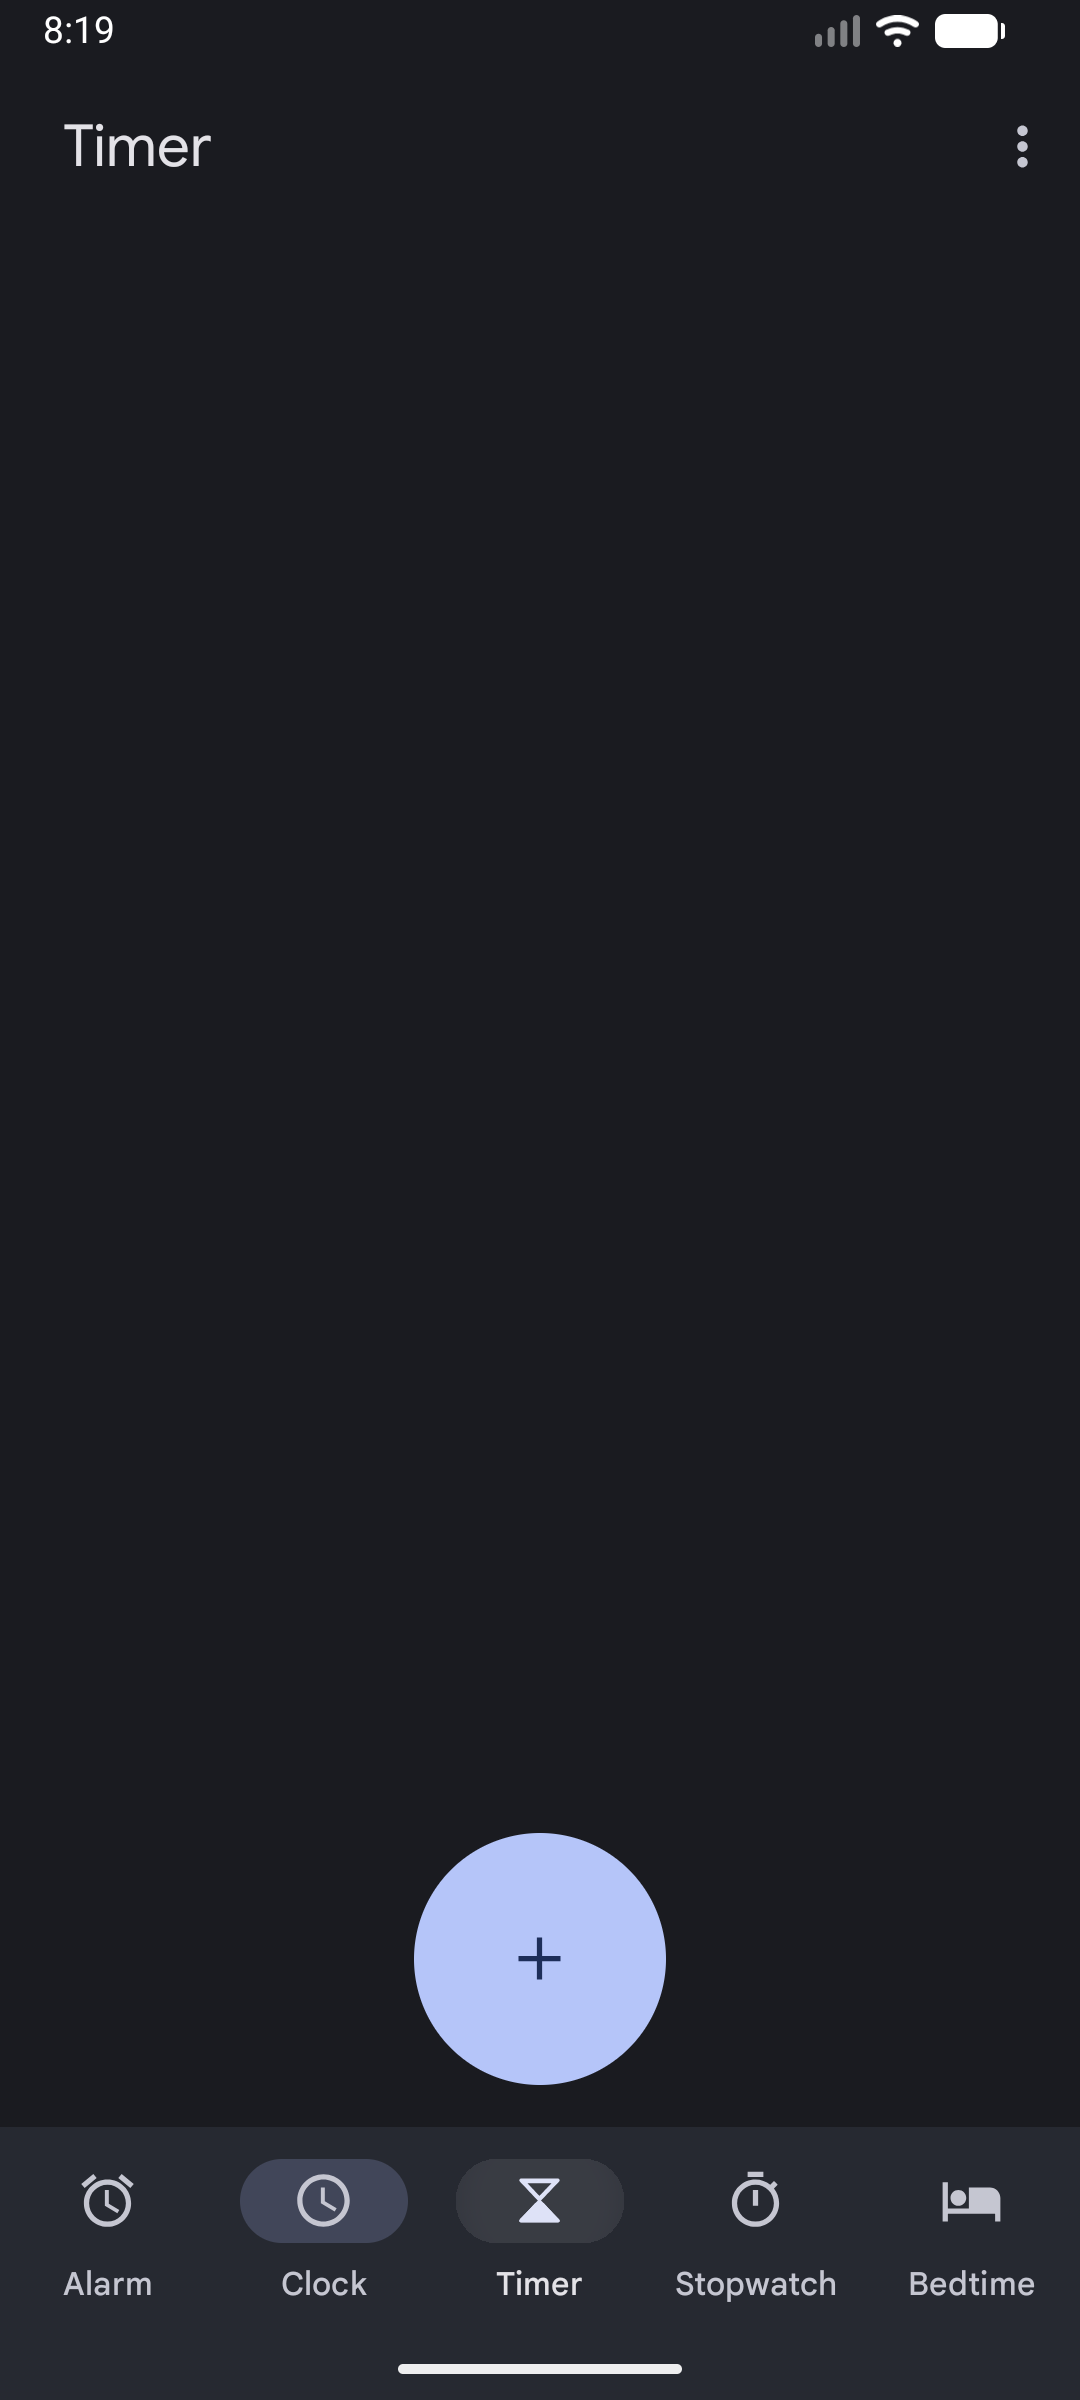
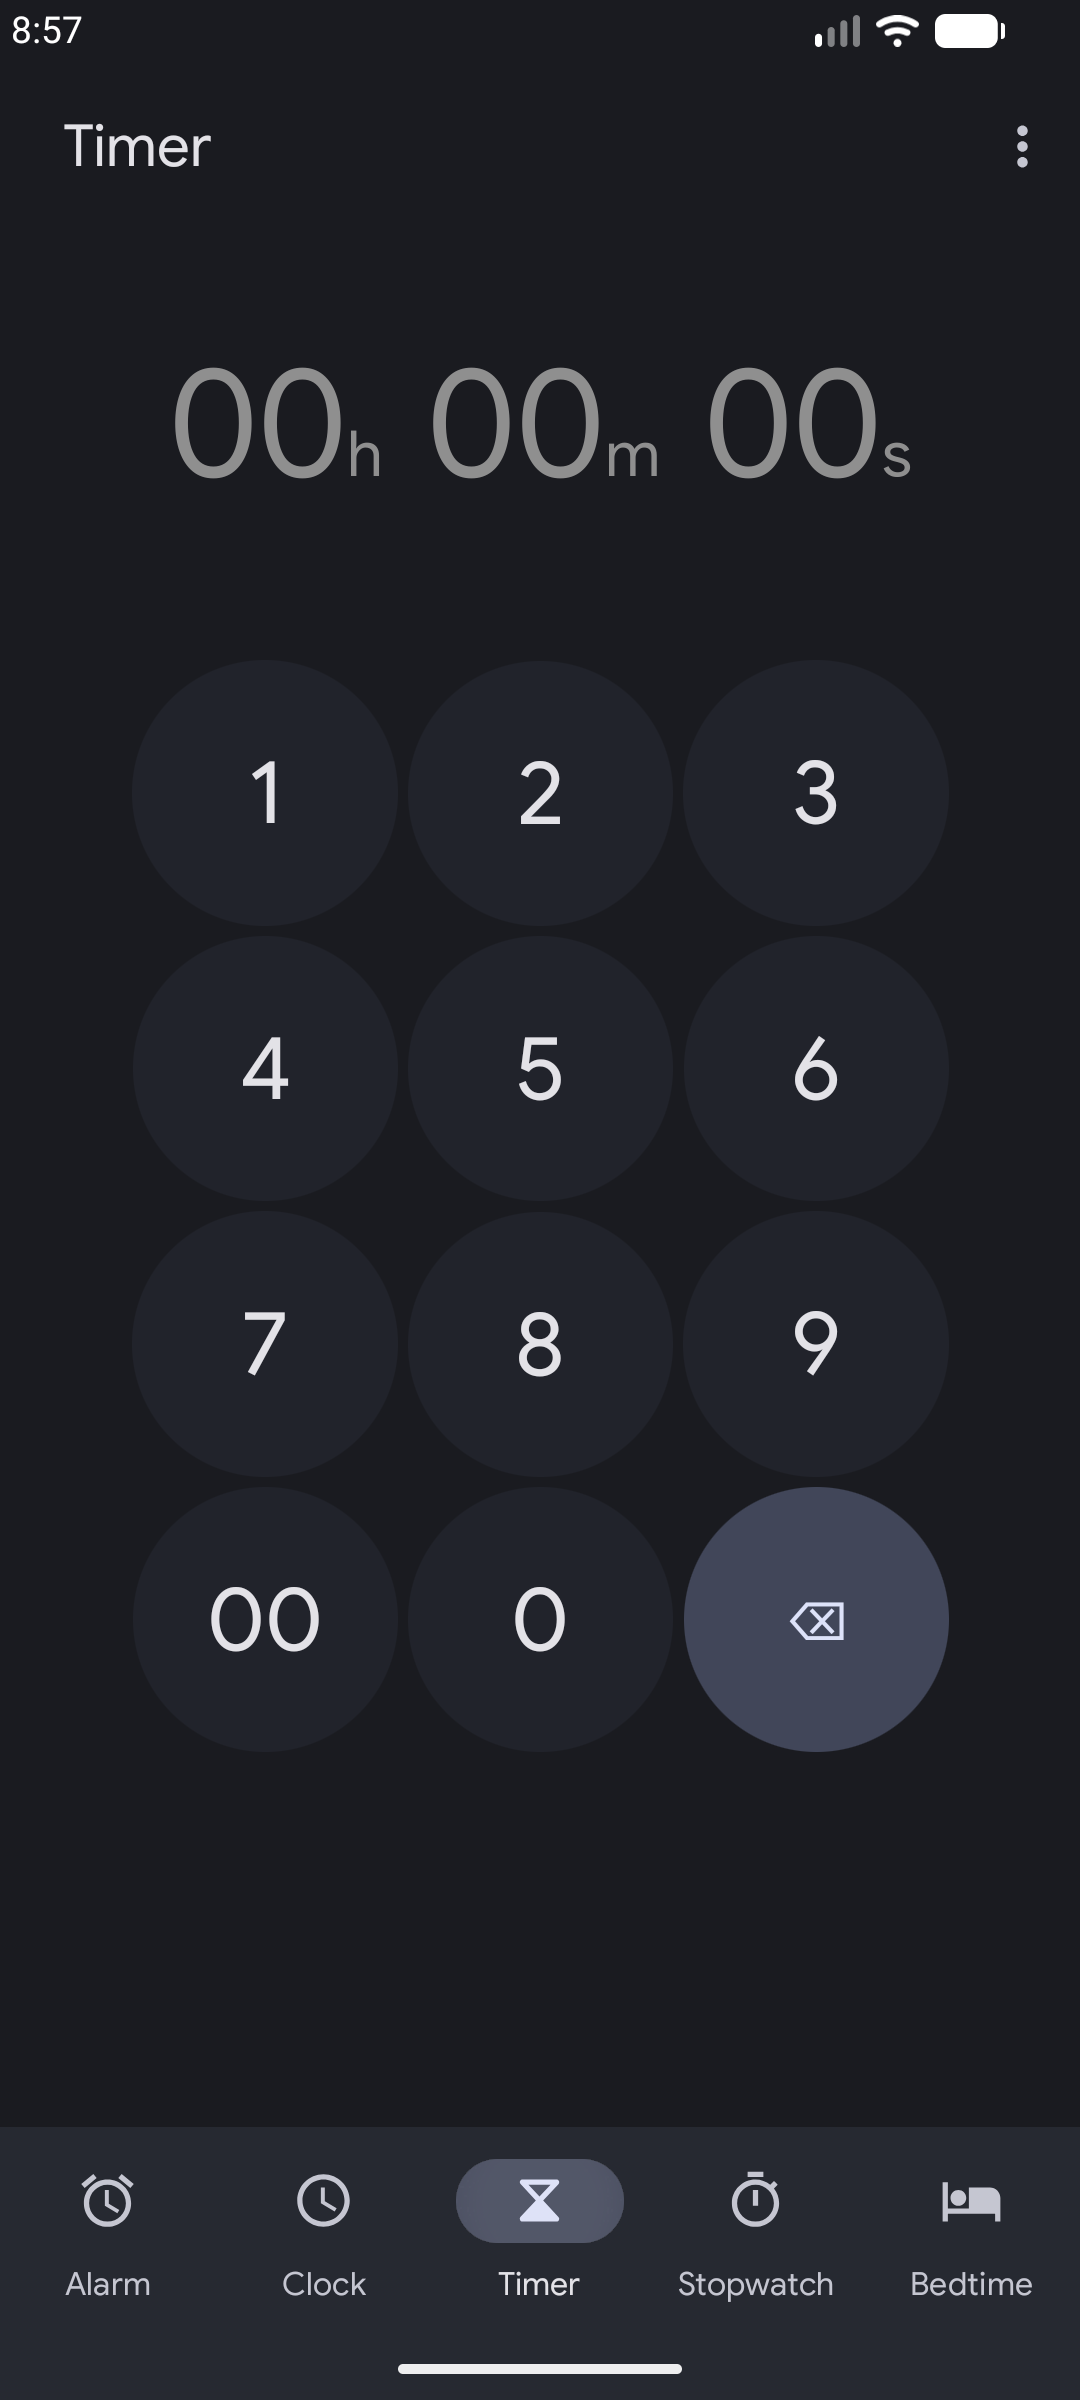
Add XPath locators (Phase 2 requires ID + XPath + Accessibility ID)
- ClockPage: XPath for selected-tab check and toolbar title; isLoaded() now waits
  on desk_clock_pager because DeskClock restores its last tab (ids differ per tab)
- ApiDemosPage: XPath widgetLabel()/isWidgetLabelDisplayed() used by ApkInstallTest
- Remove unused ClockPage.currentTime()
- Render appium-doctor output to docs/screenshots/appium-doctor.png
- README: locator-strategy table covering ID / XPath / Accessibility ID / UiAutomator

diff --git a/src/main/java/com/mahmoud/appium/pages/ClockPage.java b/src/main/java/com/mahmoud/appium/pages/ClockPage.java
@@ -4,6 +4,7 @@ import com.mahmoud.appium.config.ConfigReader;
 import io.appium.java_client.android.AndroidDriver;
 import io.appium.java_client.AppiumBy;
 import org.openqa.selenium.By;
+import org.openqa.selenium.TimeoutException;
 import org.openqa.selenium.WebElement;
 
 /**
@@ -33,8 +34,20 @@ public class ClockPage extends BasePage {
         return AppiumBy.accessibilityId(label);
     }
 
+    /**
+     * True once the app has finished launching.
+     * <p>Uses {@code desk_clock_pager} rather than a tab-specific id: DeskClock
+     * restores whichever tab was open last, so the ids differ per tab
+     * ({@code digital_clock} on Clock, {@code timer_setup} on Timer). The pager
+     * container is present on every tab.</p>
+     */
     public boolean isLoaded() {
-        return isDisplayed(tab("digital_clock"));
+        try {
+            waitVisible(tab("desk_clock_pager"));
+            return true;
+        } catch (TimeoutException e) {
+            return false;
+        }
     }
 
     /** Taps a bottom-navigation tab by its accessibility label. */
@@ -49,7 +62,16 @@ public class ClockPage extends BasePage {
         return tab.getAttribute("selected").equals("true");
     }
 
-    public String currentTime() {
-        return textOf(tab("digital_clock"));
+    /**
+     * XPath variant of {@link #isTabSelected(String)}. Uses XPath (rather than the
+     * accessibility-id locator) to assert the tab node carries {@code selected="true"}.
+     */
+    public boolean isTabSelectedByXpath(String label) {
+        return isDisplayed(By.xpath("//*[@content-desc=\"" + label + "\" and @selected=\"true\"]"));
+    }
+
+    /** Reads the text of the toolbar title, e.g. "Timer", via XPath. */
+    public String toolbarTitle() {
+        return textOf(By.xpath("//*[@resource-id=\"" + pkg() + ":id/action_bar_title\"]"));
     }
 }

diff --git a/src/test/java/com/mahmoud/appium/phase2/BuiltInAppEmulatorTest.java b/src/test/java/com/mahmoud/appium/phase2/BuiltInAppEmulatorTest.java
@@ -33,10 +33,16 @@ public class BuiltInAppEmulatorTest extends BaseTest {
 
         Assert.assertTrue(clock.isLoaded(), "The Google Clock app did not open");
 
-        // Interact with an element: open the Timer tab.
+        // Interact with an element: open the Timer tab (located by accessibility id).
         clock.openTab("Timer");
 
         ScreenshotUtil.capture(driver, "phase2-builtin-clock");
+
+        // Verify the interaction worked - accessibility-id attribute check.
         Assert.assertTrue(clock.isTabSelected("Timer"), "The Timer tab was not selected");
+        // Same check expressed as an XPath locator.
+        Assert.assertTrue(clock.isTabSelectedByXpath("Timer"),
+                "XPath did not report the Timer tab as selected");
+        Assert.assertEquals(clock.toolbarTitle(), "Timer", "The Timer screen did not open");
     }
 }

diff --git a/src/main/java/com/mahmoud/appium/pages/ApiDemosPage.java b/src/main/java/com/mahmoud/appium/pages/ApiDemosPage.java
@@ -70,4 +70,18 @@ public class ApiDemosPage extends BasePage {
     public boolean isMenuItemDisplayed(String label) {
         return isDisplayed(menuItem(label));
     }
+
+    /**
+     * XPath locator for a widget label on the "Controls" theme screen, e.g.
+     * {@code //*[@text="Checkbox 1"]}. Used to confirm the real widget screen
+     * finished loading before interacting with an element.
+     */
+    public By widgetLabel(String text) {
+        return By.xpath("//*[@text=\"" + text + "\"]");
+    }
+
+    /** True when the given widget label is present on screen (XPath-based). */
+    public boolean isWidgetLabelDisplayed(String text) {
+        return isDisplayed(widgetLabel(text));
+    }
 }

diff --git a/src/test/java/com/mahmoud/appium/phase2/ApkInstallTest.java b/src/test/java/com/mahmoud/appium/phase2/ApkInstallTest.java
@@ -40,6 +40,8 @@ public class ApkInstallTest extends BaseTest {
 
         // Interaction 3: open a concrete theme; this screen holds the real widgets.
         apiDemos.openMenu("1. Light Theme");
+        Assert.assertTrue(apiDemos.isWidgetLabelDisplayed("Checkbox 1"),
+                "The Controls widget screen did not load");
 
         // Interaction 4: toggle a checkbox and verify it became checked.
         WebElement checkbox = driver.findElement(apiDemos.checkbox1());

diff --git a/README.md b/README.md
@@ -127,6 +127,7 @@ Install the following and add them to `PATH`.
    ```
    All **necessary** checks should be green (`no fix needed`). The captured output of
    the final clean run is saved at [`docs/appium-doctor-output.txt`](docs/appium-doctor-output.txt)
+   and rendered as an image in [`docs/screenshots/appium-doctor.png`](docs/screenshots/appium-doctor.png)
    (deliverable). Optional-dependency warnings (opencv4nodejs, mjpeg-consumer,
    bundletool, gstreamer) are informational only.
 
@@ -338,18 +339,31 @@ All screenshots referenced above are in [`docs/screenshots/`](docs/screenshots/)
 
 ## 7. Locator strategy
 
-Locators were identified with **Appium Inspector**:
+Locators were identified with **Appium Inspector**. All three strategies required by
+the task are used in the Phase 2 tests:
+
+| Strategy | Where it is used | Example |
+|----------|------------------|---------|
+| **ID** (resource-id) | Calculator digits/operators, ApiDemos widgets, Clock | `By.id("com.miui.calculator:id/btn_equal_s")`, `By.id("io.appium.android.apis:id/check1")` |
+| **XPath** | Clock tab-selected check + toolbar title, ApiDemos widget label | `By.xpath("//*[@content-desc=\"Timer\" and @selected=\"true\"]")`, `By.xpath("//*[@text=\"Checkbox 1\"]")` |
+| **Accessibility ID** | Google Clock bottom-nav tabs (maps to `content-desc`) | `AppiumBy.accessibilityId("Timer")` |
+| UiAutomator (bonus) | ApiDemos menu rows, which have no stable resource-id | `AppiumBy.androidUIAutomator("new UiSelector().text(\"Views\")")` |
 
 | App | Locator type | Example |
 |-----|--------------|---------|
 | Calculator | resource-id | `com.google.android.calculator:id/eq` (emulator) / `com.miui.calculator:id/btn_equal_s` (MIUI) |
+| Google Clock | resource-id + accessibility-id + XPath | `:id/desk_clock_pager`, `accessibilityId("Timer")`, `//*[@text="Timer"]` |
 | ApiDemos menus | UiAutomator text | `new UiSelector().text("Views")` |
-| ApiDemos widgets | resource-id | `io.appium.android.apis:id/seek`, `:id/drag_dot_1`, `:id/check1` |
+| ApiDemos widgets | resource-id + XPath | `io.appium.android.apis:id/seek`, `:id/drag_dot_1`, `//*[@text="Checkbox 1"]` |
 | Chrome web | id / CSS | `#login-button`, `.title` |
 
 Calculator resource-ids differ between vendors, so they are **not** hard-coded:
 they live in `config.properties` under `calculator.*` and can be overridden with
 `-Dcalculator.equalsId=...` at runtime (see [above](#running-on-a-real-device-example-xiaomi--miui)).
+
+Google Clock restores whichever tab was open last, so readiness is asserted on
+`desk_clock_pager` (present on every tab) rather than a tab-specific id — this
+keeps the test repeatable regardless of the app's last state.
 
 If a device image ships different resource-ids, update the constants in the
 relevant `*Page` class after inspecting the screen.
@@ -359,7 +373,7 @@ relevant `*Page` class after inspecting the screen.
 ## 8. Deliverables checklist
 
 - [x] Public GitHub repository with all test scripts + this README.
-- [x] `appium-doctor --android` output — [`docs/appium-doctor-output.txt`](docs/appium-doctor-output.txt).
+- [x] `appium-doctor --android` output — [`docs/screenshots/appium-doctor.png`](docs/screenshots/appium-doctor.png) (raw text: [`appium-doctor-output.txt`](docs/appium-doctor-output.txt)) — shows *necessary dependencies completed, no fix needed*.
 - [x] Built-in app screenshot **on the AVD emulator** — [`docs/screenshots/phase2-builtin-app-emulator-clock.png`](docs/screenshots/phase2-builtin-app-emulator-clock.png)
 - [x] Built-in Calculator screenshot (device with Google Calculator) — `docs/screenshots/phase2-builtin-calculator.png`
 - [x] APK screenshot **on the AVD emulator** — [`docs/screenshots/phase2-apk-checkbox.png`](docs/screenshots/phase2-apk-checkbox.png)
